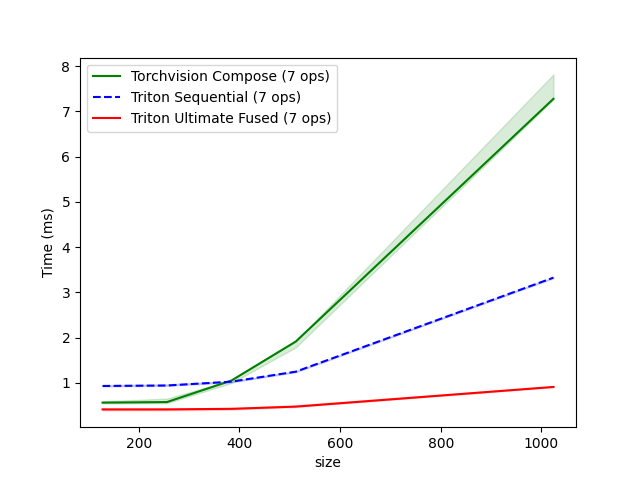
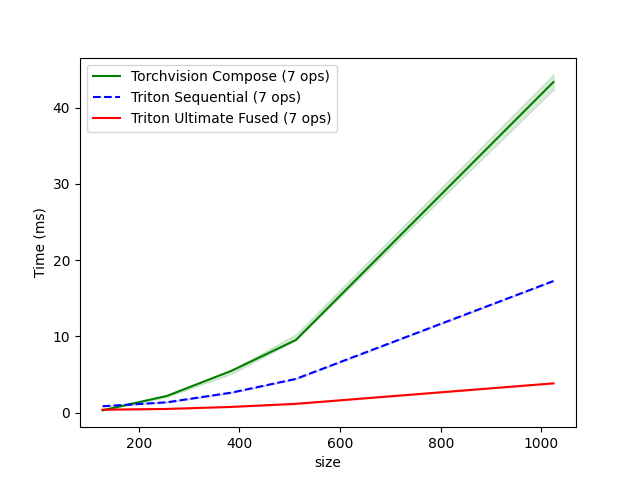
update benchmark on T4

diff --git a/triton_augment/kernels/fused_kernel.py b/triton_augment/kernels/fused_kernel.py
@@ -144,7 +144,7 @@ def ultimate_fused_kernel(
         BLOCK_SIZE: Elements to process per thread block (auto-tuned)
     
     Performance:
-        - Over 8x faster on large images (4x average, scales dramatically with image size, even higher with auto-tuning)
+        - Up to 12x faster on large images (8.1x average on Tesla T4, scales dramatically with image size)
         - No intermediate memory buffers
         - Single kernel launch for entire pipeline
         - Auto-tuning provides optimal configuration per GPU architecture

diff --git a/triton_augment/functional.py b/triton_augment/functional.py
@@ -832,7 +832,7 @@ def fused_augment(
     Combines geometric (crop + flip) and pixel (color + normalize) operations
     in a single GPU kernel, providing maximum performance.
     
-    **Performance**: ~8-10x faster than torchvision Compose (6+ sequential operations)
+    **Performance**: Up to 12x faster on large images (8.1x average on Tesla T4, scales dramatically with image size)
     
     Operations applied in sequence:
     1. **Geometric**: Crop + Optional Horizontal Flip (index transformations, per-image)

diff --git a/examples/benchmark_triton.py b/examples/benchmark_triton.py
@@ -513,7 +513,7 @@ def benchmark_ultimate_fusion(size, batch_size, provider):
     - Triton Sequential: 5 Triton transforms (7 kernel launches)
     - Triton Ultimate: 1 fused kernel (1 kernel launch) 🚀
     
-    Expected: ~8-10x speedup vs torchvision!
+    Expected: ~5-12x speedup vs torchvision (Tesla T4)!
     """
     img = torch.rand(batch_size, 3, size, size, device='cuda')
     

diff --git a/README.md b/README.md
@@ -124,18 +124,18 @@ geo_only = ta.TritonRandomCropFlip(size=112, horizontal_flip_p=0.5)
 
 ## ⚡ Performance
 
-### Benchmark Results (NVIDIA A100 on Google Colab)
+### Benchmark Results (Tesla T4 - Google Colab Free Tier)
 
 Real training scenario with random augmentations:
 
 | Image Size | Batch | Crop Size | Torchvision | Triton Fused | Speedup |
 |------------|-------|-----------|-------------|--------------|---------|
-| 256×256    | 32    | 224×224   | 0.61 ms     | 0.44 ms      | **1.4x** |
-| 256×256    | 64    | 224×224   | 0.93 ms     | 0.43 ms      | **2.1x** |
-| 600×600    | 32    | 512×512   | 2.19 ms     | 0.50 ms      | **4.4x** |
-| 1280×1280  | 32    | 1024×1024 | 8.23 ms     | 0.94 ms      | **8.7x** |
+| 256×256    | 32    | 224×224   | 2.48 ms     | 0.56 ms      | **4.5x** |
+| 256×256    | 64    | 224×224   | 4.51 ms     | 0.69 ms      | **6.5x** |
+| 600×600    | 32    | 512×512   | 11.82 ms    | 1.26 ms      | **9.4x** |
+| 1280×1280  | 32    | 1024×1024 | 48.91 ms    | 4.07 ms      | **12.0x** |
 
-**Average Speedup: 4.1x** 🚀
+**Average Speedup: 8.1x** 🚀
 
 > Operations: RandomCrop + RandomHorizontalFlip + ColorJitter + RandomGrayscale + Normalize
 
@@ -145,7 +145,23 @@ Real training scenario with random augmentations:
 <img src="ultimate-fusion-performance.png" alt="Ultimate Fusion Performance" width="600"/>
 </div>
 
-*Speedup advantage increases dramatically for larger images (600×600+). Triton Ultimate Fused maintains near-constant runtime while Torchvision scales linearly.*
+*Speedup advantage increases dramatically for larger images (600×600+). Triton maintains near-constant runtime while Torchvision scales linearly.*
+
+<details>
+<summary><b>📊 Additional Benchmarks (NVIDIA A100)</b></summary>
+
+| Image Size | Batch | Crop Size | Torchvision | Triton Fused | Speedup |
+|------------|-------|-----------|-------------|--------------|---------|
+| 256×256    | 32    | 224×224   | 0.61 ms     | 0.44 ms      | **1.4x** |
+| 256×256    | 64    | 224×224   | 0.93 ms     | 0.43 ms      | **2.1x** |
+| 600×600    | 32    | 512×512   | 2.19 ms     | 0.50 ms      | **4.4x** |
+| 1280×1280  | 32    | 1024×1024 | 8.23 ms     | 0.94 ms      | **8.7x** |
+
+**Average: 4.1x** (A100's high memory bandwidth makes torchvision already fast, so relative improvement is smaller)
+
+</details>
+
+> **💡 Why better speedup on T4?** Kernel fusion reduces memory bandwidth bottlenecks, which matters more on bandwidth-limited GPUs like T4 (320 GB/s) vs A100 (1,555 GB/s). This means **greater benefits on consumer and mid-range hardware** — exactly where most users need it!
 
 ### Run Your Own Benchmarks
 

diff --git a/CHANGELOG.md b/CHANGELOG.md
@@ -44,7 +44,7 @@ and this project adheres to [Semantic Versioning](https://semver.org/spec/v2.0.0
 - Input validation and helpful error messages
 
 #### Documentation & Testing
-- Comprehensive README with benchmark results (4x average speedup, up to 8.7x on large images)
+- Comprehensive README with benchmark results (8.1x average speedup on T4, up to 12x on large images)
 - Full API reference documentation
 - User guides: Float16, Auto-Tuning, Batch Behavior, Contrast Implementation
 - 200+ unit tests covering correctness, float16, per-image randomness
@@ -52,8 +52,9 @@ and this project adheres to [Semantic Versioning](https://semver.org/spec/v2.0.0
 - Benchmark scripts with visualization
 
 ### Performance
-- **4.1x average speedup** vs torchvision (A100, Google Colab)
-- Scales with image size: 1.4x (256×256) → 8.7x (1280×1280)
+- **8.1x average speedup** vs torchvision (Tesla T4, Google Colab Free Tier)
+- Scales with image size: 4.5x (256×256) → 12.0x (1280×1280)
+- 4.1x average on A100 (high bandwidth makes relative improvement smaller)
 - Zero intermediate memory allocations through kernel fusion
 - Optimized for large batches and large images
 

diff --git a/docs/api-reference.md b/docs/api-reference.md
@@ -395,7 +395,7 @@ ta.fused_augment(
 
 **Returns:** Fully augmented tensor of shape `(N, C, height, width)`
 
-**Performance**: Over 8x faster on large images (4x average, scales dramatically with image size, even higher with auto-tuning)
+**Performance**: Up to 12x faster on large images (8.1x average on Tesla T4, scales dramatically with image size)
 
 **Example:**
 
@@ -548,7 +548,7 @@ ta.TritonFusedAugment(
 - `random_grayscale_p` (float): Probability of converting to grayscale (default: 0.0, no grayscale)
 - `mean`, `std` (tuple): Normalization parameters
 
-**Performance**: Over 8x faster on large images (4x average, scales dramatically with image size, even higher with auto-tuning)
+**Performance**: Up to 12x faster on large images (8.1x average on Tesla T4, scales dramatically with image size)
 
 **Design Note**: All augmentation parameters default to 0 (no augmentation) for consistency and predictability. Users explicitly opt-in to each augmentation they want to use.
 

diff --git a/docs/quickstart.md b/docs/quickstart.md
@@ -34,7 +34,7 @@ augmented = transform(images)  # Single kernel launch for ALL operations!
 - ColorJitter (brightness, contrast, saturation)
 - Normalize
 
-**Performance**: Over 8x faster on large images (4x average, scales dramatically with image size, even higher with auto-tuning)
+**Performance**: Up to 12x faster on large images (8.1x average on Tesla T4, scales dramatically with image size)
 
 ---
 
